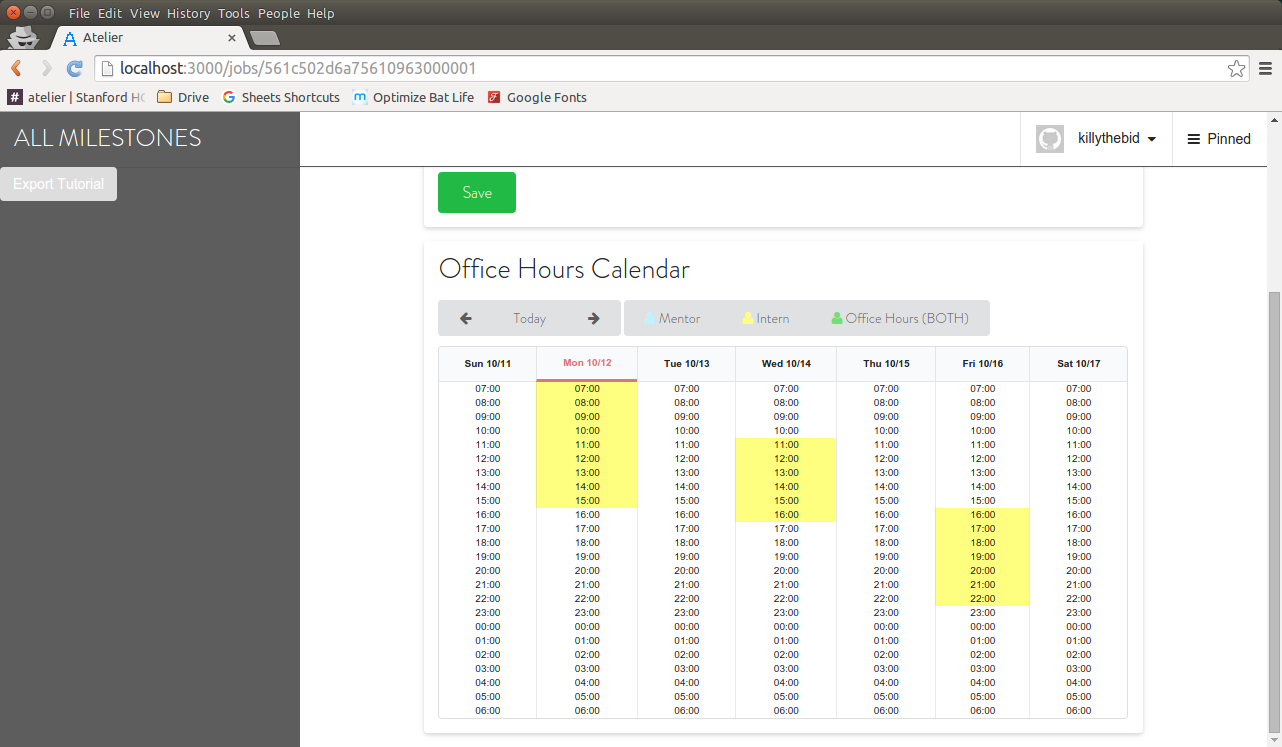
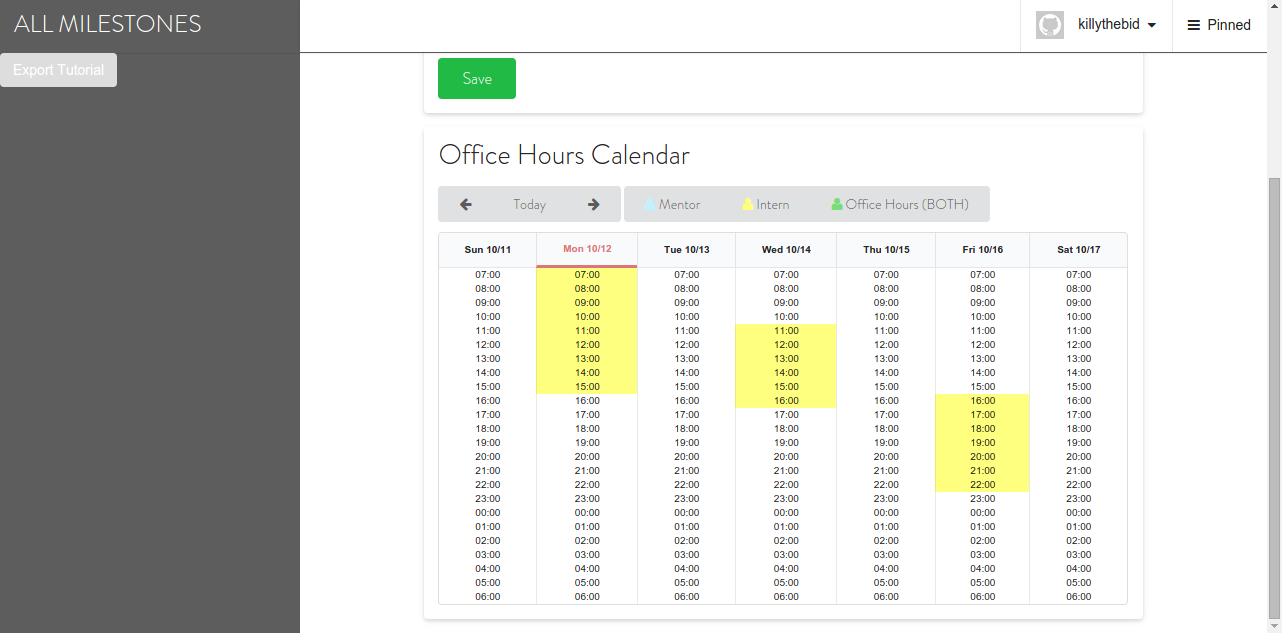
Made things clickable and added Atelier video

Changed region(s): [[0.2496, 0.1501, 0.9672, 0.9905], [0.0, 0.0, 1.0, 0.2701], [0.9672, 0.2701, 0.9984, 0.3902]]

diff --git a/index.html b/index.html
@@ -76,7 +76,33 @@
                 <div id="atelier" class="row">
                     <h2 class="text-center">Atelier</h2>
                     <h3 class="text-center"><span class="code-font">{MicroInternship Research}</span></h3>
-                    <img class="col-xs-12 col-md-7 xs-bottom-padding" src="img/Atelier/overView.png">
+                    <div class="col-xs-12 xs-bottom-padding col-md-7 image-section">
+                        <div class="row">
+                            <div class="col-xs-12">
+                                <div class="videoWrapper">
+                                    <!-- Copy & Pasted from YouTube -->
+                                    <iframe width="560" height="349" src="https://www.youtube.com/embed/tBojZejtFQo" frameborder="0" allowfullscreen></iframe>
+                                </div>
+                            </div>
+                        </div>
+                        <div class="row">
+                            <div class="col-xs-12">
+                                <a href="img/Atelier/AtelierFigure_SynchChat8.png"><img class="img-responsive" src="img/Atelier/AtelierFigure_SynchChat8.png"></a>
+                            </div>
+                        </div>
+                        <div class="row">
+                            <div class="col-xs-4">
+                                <a href="img/Atelier/Answered.png"><img class="img-responsive" src="img/Atelier/Answered.png"></a>
+                            </div>
+                            <div class="col-xs-4">
+                                <a href="img/Atelier/Question.png"><img class="img-responsive" src="img/Atelier/Question.png"></a>
+                            </div>
+                            <div class="col-xs-4">
+                                <a href="img/Atelier/OfficeHoursCalendar.png"><img class="img-responsive" src="img/Atelier/OfficeHoursCalendar.png"></a>
+                            </div>
+                        </div>
+
+                    </div>
                     <div class="col-xs-12 col-md-5">
                         <div class="row project-links">
                             <a class="text-center center-block" href="http://dl.acm.org/citation.cfm?id=2858121&CFID=823339788&CFTOKEN=62939183">
@@ -107,10 +133,10 @@
                     <h2 class="text-center">EatVenture</h2>
                     <h3 class="text-center code-font">{An Experiment in Serendipity}</h3>
                     <div class="col-xs-6 xs-bottom-padding col-md-3">
-                        <img class="img-responsive" src="img/eatventure/menu-screen.PNG">
+                        <a href="img/eatventure/menu-screen.PNG"><img class="img-responsive" src="img/eatventure/menu-screen.PNG"></a>
                     </div>
                     <div class="col-xs-6 xs-bottom-padding col-md-3">
-                        <img class="img-responsive" src="img/eatventure/IMG_0276.PNG">
+                        <a href="img/eatventure/IMG_0276.PNG"><img class="img-responsive" src="img/eatventure/IMG_0276.PNG"></a>
                     </div>
                     <div class="col-xs-12 col-md-offset-1 col-md-5">
                         <div class="row project-links">
@@ -132,8 +158,6 @@
                                     <p>EatVenture is a project that I worked on for an HCI Design Studio class at Stanford with on a team of three people. EatVenture is a mobile web app built with React and the Google Maps and Yelp APIs that chooses a random restaurant for the user and then navigates them to that restaurant. Inspired by my own tendencies to read too much into online reviews, EatVenture differentiates itself by hiding the end destination from the users until they are literally standing in front of the restaurant.</p>
                                     <h4>My Role:</h4>
                                     <p>As a design project, my greatest responsibility was to brainstorm with the rest of my team to actually come up with the idea, flesh out the ideas, and perform user studies. To test the concept we found couples to volunteer their date night to us and then we followed them around sending them text messages containing directions to their destination in order to simulate the functionality of the application. In our brainstorming session my role was to advocate for hiding as much information from the user while crucially making them feel like their plans are in good hands.</p>
-                                    <!--                            <h4>What I Learned:</h4>-->
-                                    <!--                            <p>One of the things I learned here was that the Google Maps API does NOT want you to make something "like" google maps, especially not for free. In programming the just-in-time navigation I was hoping I could just use the Google Maps API to let me know when a user wandered off-course, but Google Maps doesn't actually offer live navigation as part of their API. Instead, what I had to do was query for the user's location periodically </p>-->
                                 </div>
                             </div>
                         </div>
@@ -142,7 +166,9 @@
                 <div id="lawgrid" class="row">
                     <h2 class="text-center">LawGrid</h2>
                     <h3 class="code-font text-center">{Visualizing and Web Scraping}</h3>
-                    <img class="col-xs-12 xs-bottom-padding col-md-7" src="img/LawGrid/LawGridOverlap.png">
+                    <a href="img/LawGrid/LawGridOverlap.png">
+                        <img class="col-xs-12 xs-bottom-padding col-md-7" src="img/LawGrid/LawGridOverlap.png">
+                    </a>
                     <div class="col-xs-12 col-md-offset-0 col-md-5">
                         <div class="row project-links">
                             <a class="text-center center-block" href="http://web.stanford.edu/class/cs448b/cgi-bin/wiki/index.php?title=FP-AndrewMcCAbeJuanPascalOdek">

diff --git a/css/juan-develops-style-white-theme.css b/css/juan-develops-style-white-theme.css
@@ -37,6 +37,12 @@ h3 {
         padding-bottom: 2vh;
     }
 }
+
+.row {
+    margin-top: 1vh;
+    margin-bottom: 1vh;
+}
+
 /******************* TITLE CARD STUFF **********************/
 
 /*
@@ -281,4 +287,18 @@ h3 {
     position: relative;
     top: 45vh;
     transform: translateY(-50%);
+}
+.videoWrapper {
+    position: relative;
+	padding-bottom: 56.25%; /* 16:9 */
+	padding-top: 25px;
+	height: 0;
+}
+
+.videoWrapper iframe {
+	position: absolute;
+	top: 0;
+	left: 0;
+	width: 100%;
+	height: 100%;
 }
